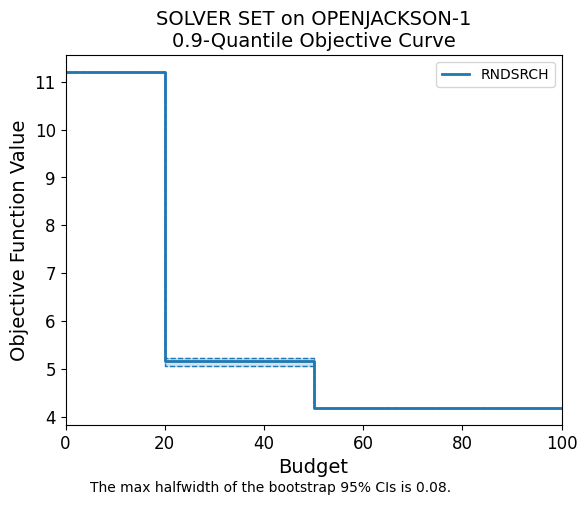
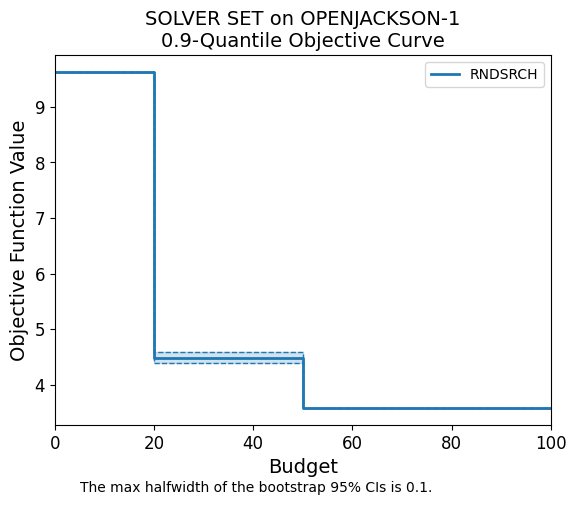
change random arrival rates back

diff --git a/simopt/models/openjackson.py b/simopt/models/openjackson.py
@@ -116,7 +116,7 @@ class OpenJackson(Model):
             "t_end": {
                 "description": "A number of replications to run",
                 "datatype": int,
-                "default": 5000
+                "default": 500
             },
             "warm_up": {
                 "description": "A number of replications to use as a warm up period",
@@ -189,11 +189,11 @@ class OpenJackson(Model):
         self.random_rng = random_rng
         random_num_queue = self.factors['number_queues']
         p = 0.5
-        random_matrix = erdos_renyi(random_rng[1], random_num_queue,p)
+        random_matrix = erdos_renyi(random_rng[0], random_num_queue,p)
         prob_matrix = np.zeros((random_num_queue, random_num_queue + 1))
         for i in range(random_num_queue):
             a = int(sum(random_matrix[i]))+1
-            probs = dirichlet(np.ones(a), rng = random_rng[1])
+            probs = dirichlet(np.ones(a), rng = random_rng[0])
             r = 0
             for j in range(random_num_queue+1):
                 if random_matrix[i][j]==1 or j == random_num_queue:
@@ -201,21 +201,21 @@ class OpenJackson(Model):
                     r += 1
         prob_matrix = np.asarray(prob_matrix)
         prob_matrix = prob_matrix[:, :-1]
-
-        # calculate the upper bound for arrival alphas
-        upper_bound = (np.identity(self.factors['number_queues']) - prob_matrix.T) @ self.factors["service_mus"]
-        for i in range(random_num_queue):
-            while (upper_bound[i] <= 0):
-                for j in range(random_num_queue):
-                    if prob_matrix[j][i] - 0.1 > 0:
-                        prob_matrix[j][i] -= 0.1
-                upper_bound = (np.identity(self.factors['number_queues']) - prob_matrix.T) @ self.factors["service_mus"]
-
         random_arrival = []
         for i in range(random_num_queue):
-            random_arrival.append(random_rng[0].uniform(0, upper_bound[i]))
+            random_arrival.append(random_rng[1].uniform(0, 1))
+
+        # calculate the upper bound for arrival alphas
+        # upper_bound = (np.identity(self.factors['number_queues']) - prob_matrix.T) @ self.factors["service_mus"]
+        # for i in range(random_num_queue):
+        #     while (upper_bound[i] <= 0):
+        #         for j in range(random_num_queue):
+        #             if prob_matrix[j,i] - 0.1 > 0:
+        #                 prob_matrix[j,i] -= 0.1
+        #         upper_bound = (np.identity(self.factors['number_queues']) - prob_matrix.T) @ self.factors["service_mus"]
+
         self.factors["arrival_alphas"] = random_arrival
-        self.factors['routing_matrix'] = prob_matrix
+        self.factors['routing_matrix'] = prob_matrix.tolist()
             
 
         return
@@ -457,14 +457,14 @@ class OpenJacksonMinQueue(Problem):
         self.model_decision_factors = {"service_mus"}
         self.factors = fixed_factors
         self.random = random
-        self.n_rngs = 0
+        self.n_rngs = 1
         
 
         self.specifications = {
             "initial_solution": {
                 "description": "initial solution",
                 "datatype": tuple,
-                "default": [8.85,9.45,8.85,11.63,10.8]
+                "default": [10,10,10,10,10]
             },
             "budget": {
                 "description": "max # of replications for a solver to take",
@@ -499,7 +499,6 @@ class OpenJacksonMinQueue(Problem):
 
     def attach_rngs(self, random_rng):
         self.random_rng = random_rng
-        self.model.attach_rng(random_rng)
         lambdas = self.model.calc_lambdas()
         random_service_rates_budget = []
         for i in range(self.model.factors["number_queues"]):
